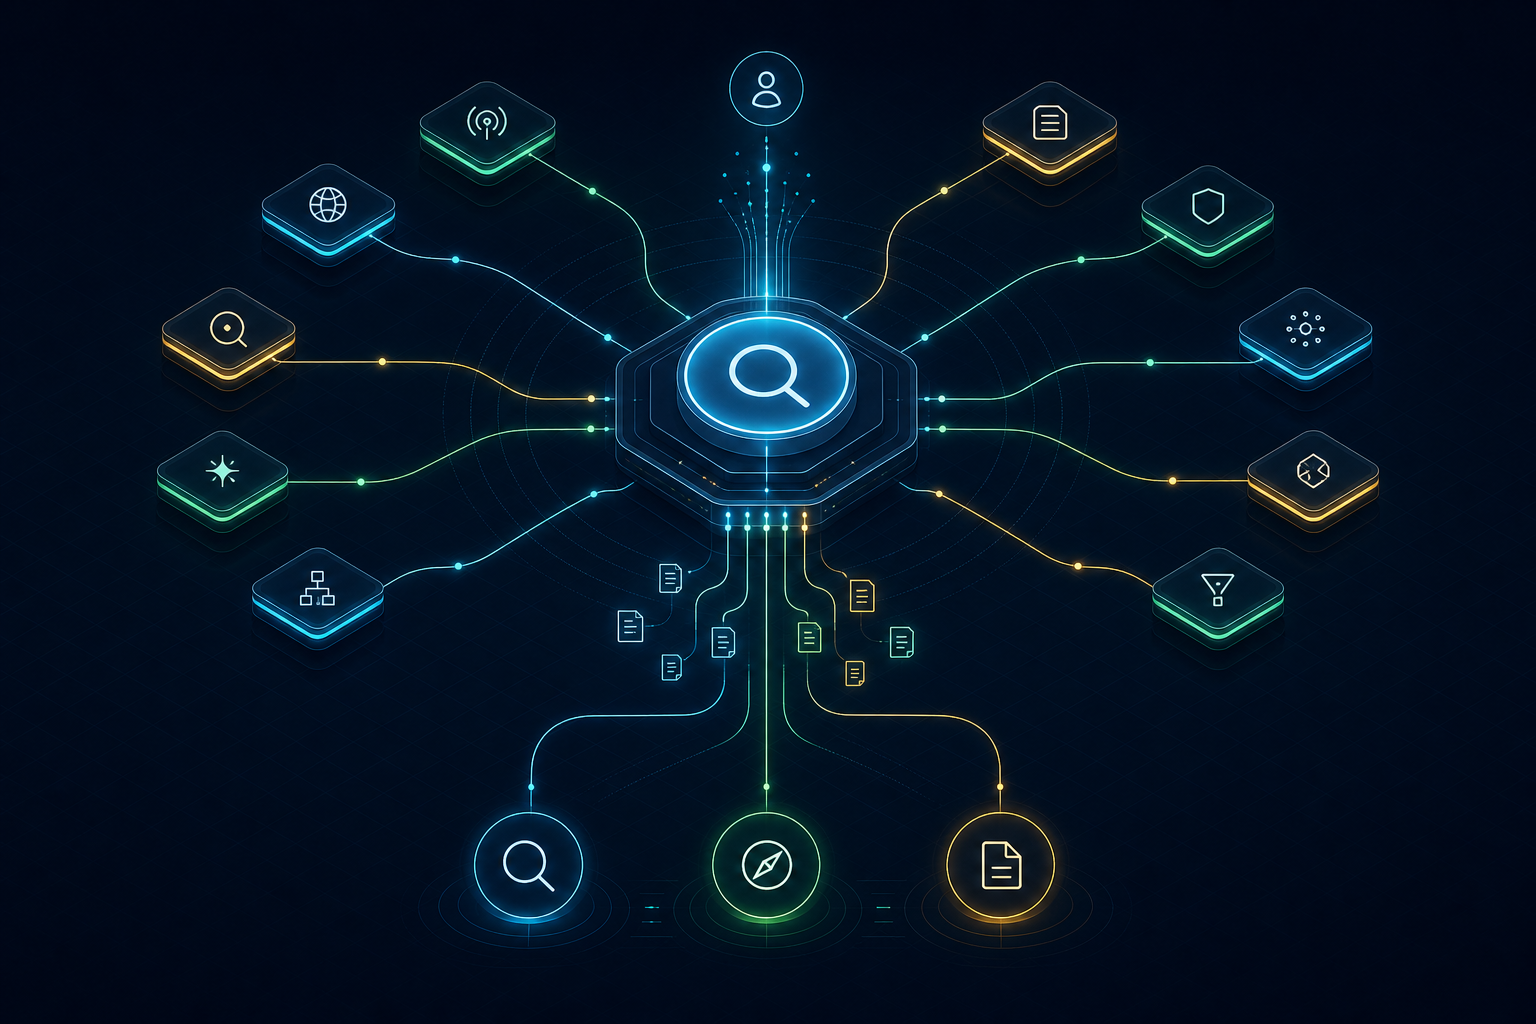
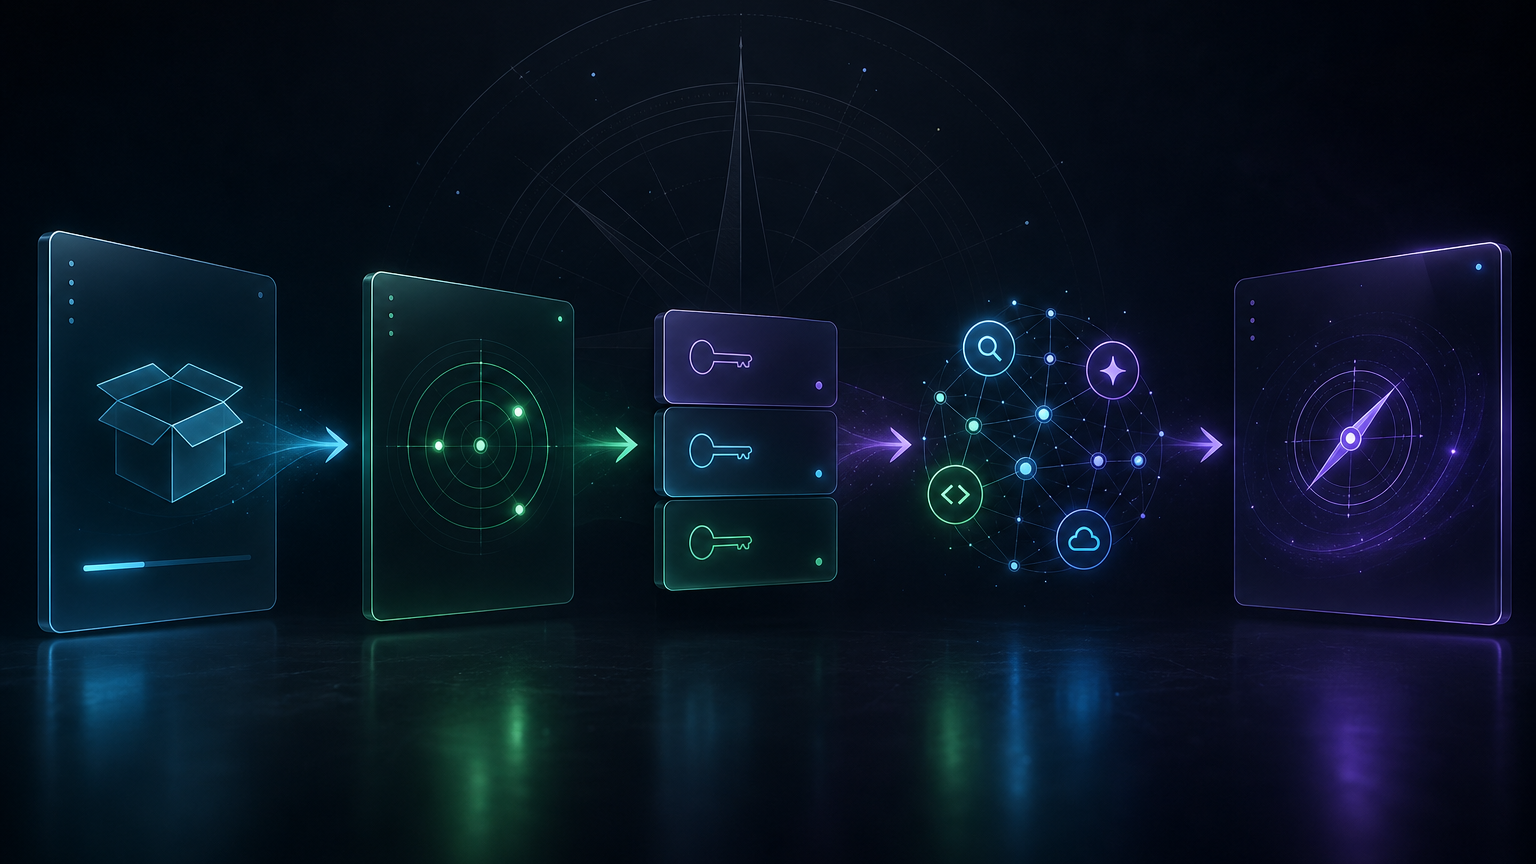
fix: make setup wizard cover all providers

diff --git a/__init__.py b/__init__.py
@@ -293,7 +293,7 @@ def _render_setup_guidance(env: Optional[Mapping[str, str]] = None, *, fancy: bo
         "web-search-plus is installed but no provider keys are configured.",
         "No single key is mandatory, but at least one search-capable provider is needed for web_search_plus/web_answer_plus.",
         "Add LINKUP_API_KEY or another extraction-capable provider for web_extract_plus and fuller cited answers.",
-        "Run `python ~/.hermes/plugins/web-search-plus/setup.py setup` to configure recommended starter providers.",
+        "Run `python ~/.hermes/plugins/web-search-plus/setup.py setup` to walk through every supported provider, or add `--preset starter` for the short path.",
         "",
         "Recommended starter providers:",
     ]
@@ -337,7 +337,7 @@ def _render_status_dashboard(status: Optional[Dict[str, Any]] = None, *, color: 
         lines.append("│ Starter: Tavily + Linkup + Brave is the best first setup.")
     lines.extend([
         "╰─ Next commands",
-        "   python ~/.hermes/plugins/web-search-plus/setup.py setup --preset starter",
+        "   python ~/.hermes/plugins/web-search-plus/setup.py setup",
         "   python ~/.hermes/plugins/web-search-plus/setup.py list",
         "   python ~/.hermes/plugins/web-search-plus/search.py --query \"Hermes Agent latest release\" --quality-report",
     ])
@@ -439,7 +439,7 @@ def _unconfigured_session_hint(
 def _web_search_plus_cli_setup(parser: argparse.ArgumentParser) -> None:
     parser.description = "Configure web-search-plus provider keys with a tiny, secret-safe wizard."
     parser.epilog = (
-        "Presets: starter=Tavily+Linkup+Brave, lean=Tavily+Linkup, "
+        "Default setup prompts every provider. Presets: starter=Tavily+Linkup+Brave, lean=Tavily+Linkup, "
         "search=Tavily+Brave+Serper, extract=Linkup+Firecrawl+Tavily."
     )
     subs = parser.add_subparsers(dest="web_search_plus_command")
@@ -447,7 +447,7 @@ def _web_search_plus_cli_setup(parser: argparse.ArgumentParser) -> None:
     status.add_argument("--plain", action="store_true", help="Print compact legacy text instead of the dashboard")
     setup = subs.add_parser("setup", help="Run the provider-key setup wizard")
     setup.add_argument("providers", nargs="*", help="Provider names to configure (overrides --preset)")
-    setup.add_argument("--preset", default="starter", help="starter, lean, search, extract, or all (default: starter)")
+    setup.add_argument("--preset", default="all", help="starter, lean, search, extract, or all (default: all)")
     setup.add_argument("--open", action="store_true", help="Open signup URLs in a browser before prompting")
     setup.add_argument("--env-path", help="Override Hermes .env path")
     setup.add_argument("--show-values", action="store_true", help="Use visible input instead of hidden secret prompts")
@@ -469,7 +469,7 @@ def _web_search_plus_cli_command(args: Any) -> None:
 
     if command == "setup":
         selected = set(getattr(args, "providers", None) or [])
-        catalog = [item for item in _PROVIDER_CATALOG if item["provider"] in selected] if selected else _providers_for_preset(getattr(args, "preset", "starter"))
+        catalog = [item for item in _PROVIDER_CATALOG if item["provider"] in selected] if selected else _providers_for_preset(getattr(args, "preset", "all"))
         if not catalog:
             raise SystemExit("No matching providers. Run `python ~/.hermes/plugins/web-search-plus/setup.py list`.")
 

diff --git a/tests/test_onboarding.py b/tests/test_onboarding.py
@@ -140,6 +140,8 @@ def test_setup_command_treats_eof_as_blank_input(monkeypatch, capsys):
 
     out = capsys.readouterr().out
     assert "Setup plan:" in out
+    for item in wsp._get_provider_catalog():
+        assert item["display_name"] in out
     assert "No keys entered; nothing changed." in out
 
 
@@ -150,17 +152,33 @@ def test_status_dashboard_is_secret_safe_and_actionable():
     assert "✓ search" in text
     assert "• extraction" in text
     assert "super-secret" not in text
-    assert "setup.py setup --preset starter" in text
+    assert "setup.py setup" in text
+    assert "setup.py setup --preset starter" not in text
 
 
 def test_setup_presets_choose_expected_providers():
     starter = {item["provider"] for item in wsp._providers_for_preset("starter")}
     lean = {item["provider"] for item in wsp._providers_for_preset("lean")}
     extract = {item["provider"] for item in wsp._providers_for_preset("extract")}
+    all_providers = {item["provider"] for item in wsp._providers_for_preset("all")}
 
     assert starter == {"tavily", "linkup", "brave"}
     assert lean == {"tavily", "linkup"}
     assert extract == {"linkup", "firecrawl", "tavily"}
+    assert all_providers == {item["provider"] for item in wsp._get_provider_catalog()}
+
+
+def test_bare_setup_defaults_to_all_supported_providers(monkeypatch, capsys):
+    parser = wsp.argparse.ArgumentParser()
+    wsp._web_search_plus_cli_setup(parser)
+    args = parser.parse_args(["setup", "--dry-run"])
+
+    args.func(args)
+
+    out = capsys.readouterr().out
+    assert "Setup plan:" in out
+    for item in wsp._get_provider_catalog():
+        assert item["display_name"] in out
 
 
 def test_setup_dry_run_prints_plan_without_prompting(monkeypatch, capsys):
@@ -186,3 +204,23 @@ def test_register_exposes_core_independent_session_onboarding_surfaces():
     assert "web-search-plus" not in ctx.cli_commands
     assert "web-search-plus-setup" in ctx.commands
     assert "on_session_start" in ctx.hooks
+
+
+def test_tool_check_functions_treat_missing_or_empty_keys_as_unconfigured(monkeypatch):
+    for key in wsp._PROVIDER_ENV_KEYS:
+        monkeypatch.setenv(key, "")
+    ctx = FakeCtx()
+
+    wsp.register(ctx)
+
+    assert ctx.tools["web_search_plus"]["check_fn"]() is False
+    assert ctx.tools["web_answer_plus"]["check_fn"]() is False
+    assert ctx.tools["web_extract_plus"]["check_fn"]() is False
+
+    monkeypatch.setenv("BRAVE_API_KEY", "brave-test")
+    assert ctx.tools["web_search_plus"]["check_fn"]() is True
+    assert ctx.tools["web_answer_plus"]["check_fn"]() is True
+    assert ctx.tools["web_extract_plus"]["check_fn"]() is False
+
+    monkeypatch.setenv("LINKUP_API_KEY", "linkup-test")
+    assert ctx.tools["web_extract_plus"]["check_fn"]() is True

diff --git a/CHANGELOG.md b/CHANGELOG.md
@@ -4,7 +4,7 @@
 
 ### ✨ Added
 - **`web_answer_plus` MVP** — a simple answer-first tool that searches, extracts selected sources, and returns citation-ready answers with confidence, freshness, source, warning, and cost metadata.
-- **Provider onboarding helper** — standalone `setup.py` with a secret-safe dashboard, provider catalog, dry-run mode, setup presets (`starter`, `lean`, `search`, `extract`, `all`), and hidden prompts so users can configure provider keys without relying on unreleased Hermes core plugin-CLI support.
+- **Provider onboarding helper** — standalone `setup.py` with a secret-safe dashboard, provider catalog, dry-run mode, full-provider default setup, optional presets (`starter`, `lean`, `search`, `extract`, `all`), and hidden prompts so users can configure provider keys without relying on unreleased Hermes core plugin-CLI support.
 - **Session-start onboarding hint** — nudges users once when no provider keys are configured, without spamming future sessions.
 
 ### 🔧 Improved
@@ -14,8 +14,8 @@
 - `web_answer_plus` prefers Linkup for extraction, falls back to the normal extraction chain when another extract provider is configured, and degrades to snippet-backed answers with an explicit warning when no extraction provider exists.
 
 ### 🧪 Tests
-- Added regression coverage for answer defaults, freshness detection, citation normalization, locale hints, output shapes, quick/deep mode selection, fallback extractor cost metadata, extraction status, cost guards, provider catalog, setup presets, setup dashboard rendering, dry-run setup behavior, and onboarding hints.
-- Test suite: 78/78 unit tests passing locally.
+- Added regression coverage for answer defaults, freshness detection, citation normalization, locale hints, output shapes, quick/deep mode selection, fallback extractor cost metadata, extraction status, cost guards, provider catalog, full-provider default setup, optional presets, setup dashboard rendering, dry-run setup behavior, empty-key tool gating, and onboarding hints.
+- Test suite: 80/80 unit tests passing locally.
 
 ## [v1.7.1] — 2026-05-06
 

diff --git a/README.md b/README.md
@@ -41,9 +41,11 @@ hermes plugins install robbyczgw-cla/hermes-web-search-plus --enable
 
 # 2) Configure provider keys with the standalone setup wizard
 python ~/.hermes/plugins/web-search-plus/setup.py status
-python ~/.hermes/plugins/web-search-plus/setup.py setup --preset starter
+python ~/.hermes/plugins/web-search-plus/setup.py setup
 
-# Starter preset:
+# Bare setup prompts every supported provider; press Enter to skip what you do not have.
+# Fast starter preset if you want the short path:
+# python ~/.hermes/plugins/web-search-plus/setup.py setup --preset starter
 # TAVILY_API_KEY=...   # search/research
 # LINKUP_API_KEY=...   # extraction + fuller cited answers
 # BRAVE_API_KEY=...    # broad independent web search
@@ -72,12 +74,14 @@ The setup wizard is intentionally nicer than “paste keys and pray”:
 ```bash
 python ~/.hermes/plugins/web-search-plus/setup.py status
 python ~/.hermes/plugins/web-search-plus/setup.py list
+python ~/.hermes/plugins/web-search-plus/setup.py setup
 python ~/.hermes/plugins/web-search-plus/setup.py setup --preset starter --open
 python ~/.hermes/plugins/web-search-plus/setup.py setup brave linkup --env-path ~/.hermes/.env
 ```
 
 Presets:
 
+- default / `all` — prompt every supported provider; Enter skips missing keys.
 - `starter` — Tavily + Linkup + Brave; best first-run setup.
 - `lean` — Tavily + Linkup; cheapest useful search + extraction pairing.
 - `search` — Tavily + Brave + Serper; broad search coverage.
